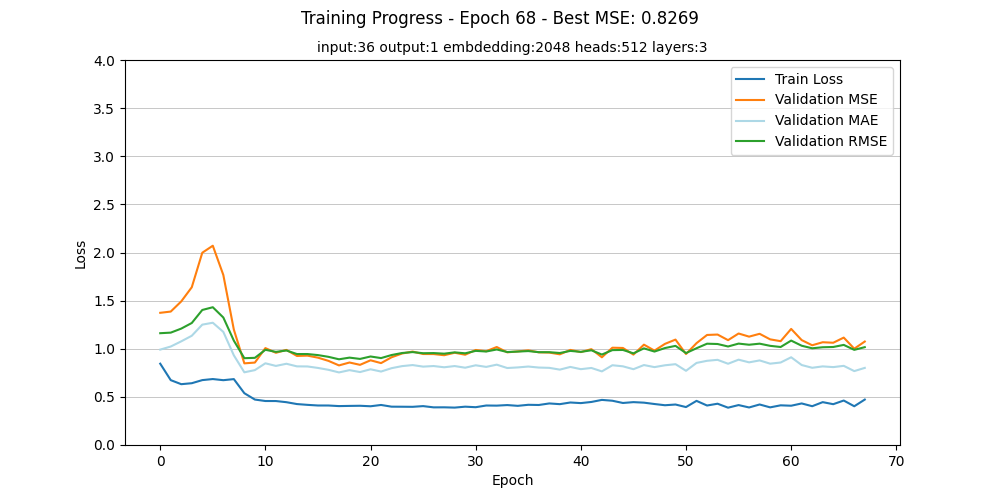
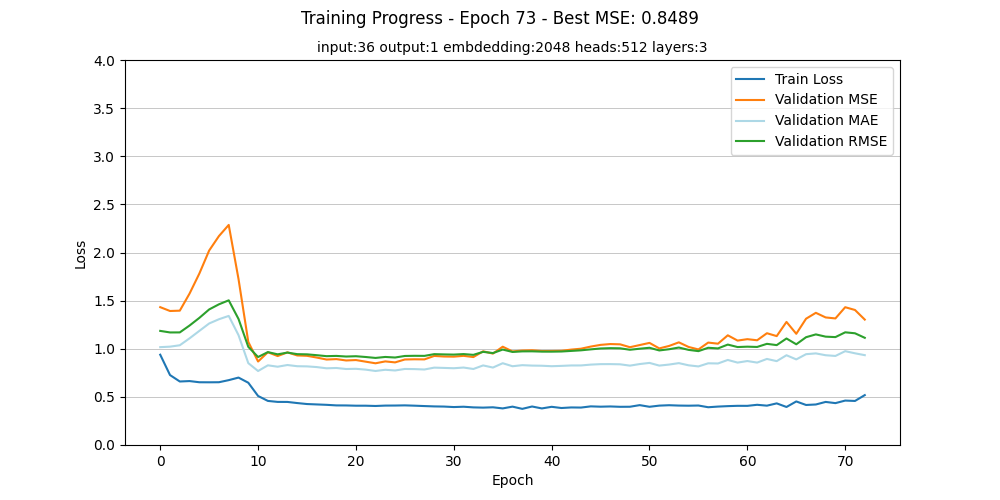
supposedly better version, with working heads and d_model corrected

diff --git a/_INFORMER/model_configuration.py b/_INFORMER/model_configuration.py
@@ -18,23 +18,23 @@ class PositionalEncoding(nn.Module):
     def forward(self, x):
         return x + self.pe[:x.size(0), :]
 
+# class ProbAttention(nn.Module):
+#     def __init__(self, mask_flag=True, factor=5, scale=None, attention_dropout=0.1, output_attention=False):
+#         super(ProbAttention, self).__init__()
+#         self.factor = factor
+#         self.scale = scale
+#         self.mask_flag = mask_flag
+#         self.output_attention = output_attention
+#         self.dropout = nn.Dropout(attention_dropout)
+
 class ProbAttention(nn.Module):
-    def __init__(self, mask_flag=True, factor=5, scale=None, attention_dropout=0.1, output_attention=False, d_model=512, n_heads=8):
+    def __init__(self, mask_flag=True, factor=5, scale=None, attention_dropout=0.1, output_attention=False):
         super(ProbAttention, self).__init__()
         self.factor = factor
         self.scale = scale
         self.mask_flag = mask_flag
         self.output_attention = output_attention
         self.dropout = nn.Dropout(attention_dropout)
-
-        self.d_model = d_model
-        self.n_heads = n_heads
-        self.d_k = d_model // n_heads
-
-        self.query_projection = nn.Linear(d_model, d_model)
-        self.key_projection = nn.Linear(d_model, d_model)
-        self.value_projection = nn.Linear(d_model, d_model)
-        self.out_projection = nn.Linear(d_model, d_model)
 
     def _prob_QK(self, Q, K, sample_k, n_top):
         # Q [B, H, L, D]
@@ -88,13 +88,39 @@ class ProbAttention(nn.Module):
         else:
             return (context_in, None)
 
-    def forward(self, queries, keys, values, attn_mask):
-        B, L, _ = queries.shape
+    # def forward(self, queries, keys, values, attn_mask):
+    #     B, L, H, D = queries.shape
+    #     _, S, _, _ = keys.shape
+
+    #     queries = queries.transpose(2, 1)
+    #     keys = keys.transpose(2, 1)
+    #     values = values.transpose(2, 1)
+
+    #     U_part = self.factor * np.ceil(np.log(S)).astype('int').item()
+    #     u = self.factor * np.ceil(np.log(L)).astype('int').item()
+        
+    #     U_part = U_part if U_part < L else L
+    #     u = u if u < S else S
+        
+    #     scores_top, index = self._prob_QK(queries, keys, u, U_part)
+
+    #     scale = self.scale or 1./np.sqrt(D)
+    #     if scale is not None:
+    #         scores_top = scores_top * scale
+        
+    #     context = self._get_initial_context(values, L)
+    #     context, attn = self._update_context(context, values, scores_top, index, L, attn_mask)
+        
+    #     return context.transpose(2,1).contiguous()
+
+    def forward(self, queries, keys, values, n_heads, attn_mask):
+        B, L, D = queries.shape
         _, S, _ = keys.shape
         
-        queries = self.query_projection(queries).view(B, L, self.n_heads, self.d_k).transpose(1, 2)
-        keys = self.key_projection(keys).view(B, S, self.n_heads, self.d_k).transpose(1, 2)
-        values = self.value_projection(values).view(B, S, self.n_heads, self.d_k).transpose(1, 2)
+        head_dim = D // n_heads
+        queries = queries.view(B, L, n_heads, head_dim).transpose(1, 2)
+        keys = keys.view(B, S, n_heads, head_dim).transpose(1, 2)
+        values = values.view(B, S, n_heads, head_dim).transpose(1, 2)
 
         U_part = self.factor * np.ceil(np.log(S)).astype('int').item()
         u = self.factor * np.ceil(np.log(L)).astype('int').item()
@@ -104,23 +130,34 @@ class ProbAttention(nn.Module):
         
         scores_top, index = self._prob_QK(queries, keys, u, U_part)
 
-        scale = self.scale or 1./np.sqrt(self.d_k)
+        scale = self.scale or 1./np.sqrt(head_dim)
         if scale is not None:
             scores_top = scores_top * scale
         
         context = self._get_initial_context(values, L)
         context, attn = self._update_context(context, values, scores_top, index, L, attn_mask)
         
-        context = context.transpose(2,1).contiguous().view(B, L, self.d_model)
-        output = self.out_projection(context)
-        
-        return output
+        context = context.transpose(2,1).contiguous().view(B, L, D)
+        return context
+
+# class InformerEncoder(nn.Module):
+#     def __init__(self, d_model, n_heads, d_ff=None, dropout=0.1, activation="relu", factor=5):
+#         super(InformerEncoder, self).__init__()
+#         d_ff = d_ff or 4*d_model
+#         self.attention = ProbAttention(mask_flag=True, attention_dropout=dropout, factor=factor) # mask_flag=True means no look on future data
+#         self.conv1 = nn.Conv1d(in_channels=d_model, out_channels=d_ff, kernel_size=1)
+#         self.conv2 = nn.Conv1d(in_channels=d_ff, out_channels=d_model, kernel_size=1)
+#         self.norm1 = nn.LayerNorm(d_model)
+#         self.norm2 = nn.LayerNorm(d_model)
+#         self.dropout = nn.Dropout(dropout)
+#         self.activation = F.relu if activation == "relu" else F.gelu
 
 class InformerEncoder(nn.Module):
     def __init__(self, d_model, n_heads, d_ff=None, dropout=0.1, activation="relu", factor=5):
         super(InformerEncoder, self).__init__()
         d_ff = d_ff or 4*d_model
-        self.attention = ProbAttention(mask_flag=False, attention_dropout=dropout, factor=factor, d_model=d_model, n_heads=n_heads)
+        self.attention = ProbAttention(mask_flag=True, attention_dropout=dropout, factor=factor) # mask_flag=True means no look on future data
+        self.n_heads = n_heads
         self.conv1 = nn.Conv1d(in_channels=d_model, out_channels=d_ff, kernel_size=1)
         self.conv2 = nn.Conv1d(in_channels=d_ff, out_channels=d_model, kernel_size=1)
         self.norm1 = nn.LayerNorm(d_model)
@@ -128,12 +165,11 @@ class InformerEncoder(nn.Module):
         self.dropout = nn.Dropout(dropout)
         self.activation = F.relu if activation == "relu" else F.gelu
 
+        
+
     def forward(self, x, attn_mask=None):
         # x [B, L, D]
-        new_x = self.attention(
-            x.unsqueeze(2), x.unsqueeze(2), x.unsqueeze(2),
-            attn_mask = attn_mask
-        ).squeeze(2)
+        new_x = self.attention(x, x, x, self.n_heads, attn_mask)
         x = x + self.dropout(new_x)
 
         x = self.norm1(x)
@@ -146,16 +182,31 @@ class InformerEncoder(nn.Module):
         return self.norm2(x)
         
 
+# class Informer(nn.Module):
+#     def __init__(self, input_dim, output_dim, d_model=512, n_heads=8, n_layers=3, dropout=0.1, factor=5):
+#         super(Informer, self).__init__()
+#         self.input_dim = input_dim
+#         self.output_dim = output_dim
+#         self.d_model = d_model
+
+#         self.embedding = nn.Linear(input_dim, d_model)
+#         self.pos_encoder = PositionalEncoding(d_model)
+        
+#         self.encoder_layers = nn.ModuleList([
+#             InformerEncoder(d_model, n_heads, dropout=dropout, factor=factor)
+#             for _ in range(n_layers)
+#         ])
+        
+#         self.decoder = nn.Linear(d_model, output_dim)
+
 class Informer(nn.Module):
-    def __init__(self, input_dim, output_dim, embedding_dim=512, d_model=512, n_heads=8, n_layers=3, dropout=0.1, factor=5):
+    def __init__(self, input_dim, output_dim, d_model, n_heads, n_layers=3, dropout=0.1, factor=5):
         super(Informer, self).__init__()
         self.input_dim = input_dim
         self.output_dim = output_dim
-        self.embedding_dim = embedding_dim
         self.d_model = d_model
 
-        self.embedding = nn.Linear(input_dim, embedding_dim)
-        self.project = nn.Linear(embedding_dim, d_model)
+        self.embedding = nn.Linear(input_dim, d_model)
         self.pos_encoder = PositionalEncoding(d_model)
         
         self.encoder_layers = nn.ModuleList([
@@ -167,8 +218,7 @@ class Informer(nn.Module):
 
     def forward(self, src):
         # src shape: (batch_size, sequence_length, input_dim)
-        src = self.embedding(src)  # (batch_size, sequence_length, embedding_dim)
-        src = self.project(src)    # (batch_size, sequence_length, d_model)
+        src = self.embedding(src)  # (batch_size, sequence_length, d_model)
         src = self.pos_encoder(src)
         
         for enc_layer in self.encoder_layers:

diff --git a/_INFORMER/_MAIN.py b/_INFORMER/_MAIN.py
@@ -42,8 +42,7 @@ else:
 INPUT_MONTHS = 36
 OUTPUT_MONTHS = 1
 EMBEDDING_SIZE = 2048 # size of the embeddings
-D_MODEL = 1 # size of the internal representations used after the initial embeddings (should kinda match the embedding size)
-ATTENTION_HEADS = 1 # number of attention heads
+ATTENTION_HEADS = 32 # number of attention heads (2048 / 32 = 64, -> 64-dimensional subspace ; which is a reasonable number)
 LAYER_COUNT = 3 # number of layers
 #
 # Training parameters
@@ -60,8 +59,8 @@ QUESTIONS = False if 'questions' in parameters and parameters['questions'] else 
 EPOCHS = int(parameters.get('epochs') or parameters.get('epoch') or DEFAULTS_EPOCHS)
 PERCENTAGE_DATA_USED_FOR_TRAINING = float(parameters.get('percentage_training') or DEFAULTS_PERCENTAGE_DATA_USED_FOR_TRAINING)
 # --------------------------------------------------------------------------------------------------------
-model_filename = f"best_informer_model_inp{INPUT_MONTHS}_out{OUTPUT_MONTHS}_emb{EMBEDDING_SIZE}_heads{ATTENTION_HEADS}_dmodel{D_MODEL}_layers{LAYER_COUNT}.pth"
-progress_filename = f"training_2019dataset_masked_inp{INPUT_MONTHS}_out{OUTPUT_MONTHS}_emb{EMBEDDING_SIZE}_heads{ATTENTION_HEADS}_dmodel{D_MODEL}_layers{LAYER_COUNT}.png"
+model_filename = f"best_informer_model_inp{INPUT_MONTHS}_out{OUTPUT_MONTHS}_emb{EMBEDDING_SIZE}_heads{ATTENTION_HEADS}_layers{LAYER_COUNT}.pth"
+progress_filename = f"2019dataset_mask_on_inp{INPUT_MONTHS}_out{OUTPUT_MONTHS}_emb{EMBEDDING_SIZE}_heads{ATTENTION_HEADS}_layers{LAYER_COUNT}.png"
 # --------------------------------------------------------------------------------------------------------
 
 # Prepare the dataset or get it from file
@@ -98,14 +97,15 @@ val_dataset = TensorDataset(X_test, y_test)
 val_loader = DataLoader(val_dataset, batch_size=BATCH_SIZE)
 
 # Instantiate the Informer model
-model = Informer(input_dim=X.shape[-1], # all features
-                 output_dim=X.shape[-1], # also all features
-                 embedding_dim=EMBEDDING_SIZE,
-                 d_model=D_MODEL,
-                 n_heads=ATTENTION_HEADS,
-                 n_layers=LAYER_COUNT,
-                 dropout=DROPOUT_RATE,
-                 factor=5).to(device)
+model = Informer(
+    input_dim=X.shape[-1], 
+    output_dim=X.shape[-1], 
+    d_model=EMBEDDING_SIZE,  # Pass EMBEDDING_SIZE as d_model
+    n_heads=ATTENTION_HEADS, 
+    n_layers=LAYER_COUNT, 
+    dropout=DROPOUT_RATE, 
+    factor=5
+).to(device)
 
 # Loss function
 criterion = nn.MSELoss().to(device)
@@ -140,7 +140,7 @@ no_improve_epochs = 0
 train_losses = []
 val_mses = []
 val_maes = []
-val_rmses = []
+# val_rmses = []
 
 # Training loop
 print("Starting training...")
@@ -186,7 +186,7 @@ for epoch in range(EPOCHS):
     train_losses.append(avg_epoch_loss)
     val_mses.append(avg_val_mse)
     val_maes.append(avg_val_mae)
-    val_rmses.append(avg_val_rmse)
+    # val_rmses.append(avg_val_rmse)
 
     print(f"Epoch {epoch+1}/{EPOCHS}, Train Loss: {avg_epoch_loss:.4f}, "
           f"Val MSE: {avg_val_mse:.4f}, Val MAE: {avg_val_mae:.4f}, Val RMSE: {avg_val_rmse:.4f}")
@@ -204,16 +204,16 @@ for epoch in range(EPOCHS):
     # Plot and save training statistics after each epoch
     plt.figure(figsize=(10, 5))
     plt.plot(train_losses, label='Train Loss')
-    plt.plot(val_mses, label='Validation MSE')
     plt.plot(val_maes, label='Validation MAE', color='lightblue')
-    plt.plot(val_rmses, label='Validation RMSE')
-    plt.ylim(0, 4)
+    plt.plot(val_mses, label='Validation MSE')
+    # plt.plot(val_rmses, label='Validation RMSE')
+    plt.ylim(0, 2)
     plt.grid(True, which='both', axis='y', linestyle='-', linewidth=0.5)
     plt.xlabel('Epoch')
     plt.ylabel('Loss')
     plt.legend()
     plt.suptitle(f'Training Progress - Epoch {epoch+1} - Best MSE: {best_val_loss:.4f}')
-    plt.title(f'input:{INPUT_MONTHS} output:{OUTPUT_MONTHS} embdedding:{EMBEDDING_SIZE} heads:{ATTENTION_HEADS} d_model{D_MODEL} layers:{LAYER_COUNT} mask:TRUE', fontsize=10)
+    plt.title(f'input:{INPUT_MONTHS} output:{OUTPUT_MONTHS} embdedding:{EMBEDDING_SIZE} heads:{ATTENTION_HEADS} layers:{LAYER_COUNT}', fontsize=10)
     plt.savefig(progress_filename)
     plt.close()
     
